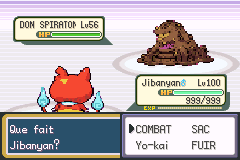
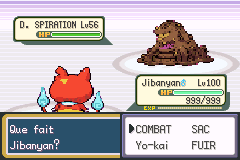
Use requested D. SPIRATION label in boss healthbox

Changed region(s): [[0.0875, 0.125, 0.3208, 0.1875]]

diff --git a/tools/yokai/verifier_spiraton_phase_a.py b/tools/yokai/verifier_spiraton_phase_a.py
@@ -4,8 +4,17 @@ from pathlib import Path
 import hashlib,json,subprocess
 from mgba_rpc import ROOT as R
 Q=R/'QA_RECETTE_FINALE/DON_SPIRATON/PHASE_A';base='b3396ac9f'
-protected=['graphics','src/data/pokemon','data/maps','data/scripts','src/battle_main.c','src/battle_interface.c','src/spiraton_core.c','src/spiraton_battle.c','src/data/trainers.h','src/data/trainer_parties.h','src/pokemon.c','src/data/yokai_mixer_gains.h','data/yokai/audio_loops.json']
+protected=['graphics','src/data/pokemon','data/maps','data/scripts','src/battle_main.c','src/spiraton_core.c','src/data/trainers.h','src/data/trainer_parties.h','src/pokemon.c','src/data/yokai_mixer_gains.h','data/yokai/audio_loops.json']
 subprocess.run(['git','diff','--exit-code',base,'--',*protected],cwd=R,check=True,stdout=subprocess.DEVNULL)
+# User-approved compact HUD label; permit only these exact display changes.
+for path in ['src/battle_interface.c','src/spiraton_battle.c']:
+ previous=subprocess.check_output(['git','show','9bfc27089:'+path],cwd=R,text=True)
+ current=(R/path).read_text()
+ if path.endswith('battle_interface.c'):
+  current=current.replace('? gSpiratonHealthboxName : nickname','? gSpiratonBattleName : nickname')
+ else:
+  current=current.replace('const u8 gSpiratonHealthboxName[] = _("D. SPIRATION");\n','')
+ assert current==previous,path
 old=R.parent/'Pokemon-Yokai-Watch-argenta'
 def sym(root):
  return {v[2]:int(v[0],16)-0x8000000 for line in subprocess.check_output(['arm-none-eabi-nm','--defined-only',str(root/'pokefirered_audio.elf')],text=True).splitlines() if len(v:=line.split())==3}

diff --git a/src/battle_interface.c b/src/battle_interface.c
@@ -1496,7 +1496,7 @@ void UpdateNickInHealthbox(u8 healthboxSpriteId, struct Pokemon *mon)
     ptr = StringCopy(gDisplayedStringBattle, sText_HealthboxNickname);
     GetMonData(mon, MON_DATA_NICKNAME, nickname);
     StringGet_Nickname(nickname);
-    ptr = StringCopy(ptr, SpiratonBattlePresentationIsBoss(gSprites[healthboxSpriteId].sBattlerId) ? gSpiratonBattleName : nickname);
+    ptr = StringCopy(ptr, SpiratonBattlePresentationIsBoss(gSprites[healthboxSpriteId].sBattlerId) ? gSpiratonHealthboxName : nickname);
     *ptr++ = EXT_CTRL_CODE_BEGIN;
     *ptr++ = EXT_CTRL_CODE_COLOR;
 

diff --git a/src/spiraton_battle.c b/src/spiraton_battle.c
@@ -30,6 +30,7 @@ static EWRAM_DATA u8 sOldAttacker = 0, sOldTarget = 0;
 static EWRAM_DATA u16 sOldMove = 0;
 static EWRAM_DATA void (*sResume)(void) = NULL;
 const u8 gSpiratonBattleName[] = _("DON SPIRATON");
+const u8 gSpiratonHealthboxName[] = _("D. SPIRATION");
 
 void SpiratonBattleArmPrototype(void) { sArmed = TRUE; }
 bool8 SpiratonBattlePrototypeArmed(void) { return sArmed; }

diff --git a/include/spiraton_battle.h b/include/spiraton_battle.h
@@ -14,4 +14,5 @@ bool8 SpiratonBattleEndTurn(void);
 u16 SpiratonBattleTransformSpecies(u8 battler);
 u32 SpiratonBattleInspect(u8 field);
 extern const u8 gSpiratonBattleName[];
+extern const u8 gSpiratonHealthboxName[];
 #endif

diff --git a/docs/don-spiraton/phase-a/PROPOSITIONS.md b/docs/don-spiraton/phase-a/PROPOSITIONS.md
@@ -82,7 +82,7 @@ Après validation de la maison : réutiliser l'équipe743 avec ses paramètres a
 
 - [Rapport mGBA public](../../../QA_RECETTE_FINALE/DON_SPIRATON/PHASE_A/TEST_MGBA.json) et [privé](../../../QA_RECETTE_FINALE/DON_SPIRATON/PHASE_A/prive/TEST_MGBA.json) : aperçu réel, premier tour toujours en attente, zones HUD/menus identiques à l'image avant aperçu, palette RGB555 chargée, libération/restauration, rendu de Turboss existant, deux sorties de maisons.
 - [Préservation](../../../QA_RECETTE_FINALE/DON_SPIRATON/PHASE_A/PRESERVATION.json) : graphismes,151 espèces, cartes, scripts, équipes et code du boss précédent inchangés ; les31 flux audio et378 gains privés restent identiques à Argenta.
-- Publique :16 777 216 octets ; privée :31 658 435 octets ; marge32 Mio :1 895 997 octets.
+- Publique :16 777 216 octets ; privée :31 658 447 octets ; marge32 Mio :1 895 985 octets.
 - EWRAM :261124/262144 ; IWRAM privée :29888/32768. Aucun global de scène ajouté.
 - Aucun test de première conquête normale revendiqué : l'étape B attend la validation graphique.
 - Aucun test d'une revanche dans une maison revendiqué : l'étape C attend l'emplacement et le dialogue.
@@ -94,3 +94,7 @@ Après validation de la maison : réutiliser l'équipe743 avec ses paramètres a
 2. Choisir la maison, avant tout ajout de PNJ ou changement d'événement pour l'étape C.
 
 Aucune finale complète n'est annoncée comme terminée à cette étape.
+
+## Nom court demandé par le créateur
+
+Le HUD affiche désormais « D. SPIRATION », selon la dernière instruction. Ce libellé spécifique est séparé du nom complet utilisé dans les messages. L'aperçu et les compilations publique/privée ont été revérifiés dans mGBA. Cette décision ne vaut pas validation de l'ensemble de la candidate graphique ni choix de la maison.
